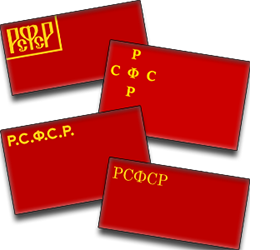
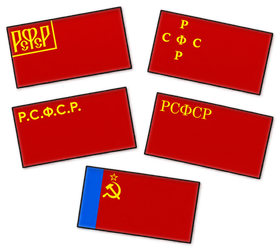
Display fifth Russian flag option and preserve Soviet republic cosmetic name

diff --git a/MOD制作日志.md b/MOD制作日志.md
@@ -2,6 +2,12 @@
 
 最后更新：2026-10-11
 
+## 2026-10-11 — 第五种国旗展示及外观名称修复
+
+- 国旗问题stalin_form_sov.6已有第五选项、RUS_sov_5外观色与大中小旗，但配图仍只有四旗；三语缺RUS_sov_5名称键，选旗后回退基础俄罗斯名称。沿用前四种外观名称本地化格式，为第五种补齐简中／英文／俄文名称、DEF及ADJ，显示俄罗斯苏维埃联邦社会主义共和国。未改选旗事件、国旗纹理、意识形态或其他效果。
+- 使用内置ImageGen编辑原四旗配图，加入实际第五旗参考（蓝旗杆边、红底黄星镰锤），排列上二／中二／下中一，五旗互不遮挡；生成高清透明图保存在output/flag_choice_fifth_20261011，缩放为原配图280×250 RGBA保持原事件与图元引用。完整提示词、旧图、三语修改前文件及第五旗参考保存在该输出目录。高清与原尺寸已目视核对第五面旗及顺序。
+- 核对三语差异仅新增外观名称／DEF／ADJ且键唯一、UTF-8 BOM；结构检查、本地化RHoiScribe与项目括号／未闭合块检查通过，repair仅dry_run未应用，git diff --check通过。选择文件构建同步配图及三语到上传，其余上传文件保留。未启动游戏，选旗后的名称与事件展示仍需重启实测。开始工作树干净，fetch连接重置且网络子进程停滞，终止本次fetch，未拉取或覆盖远端；创建本地Git提交，未推送GitHub。
+
 ## 2026-10-11 — 事件总体主义译名统一
 
 - 对照只读KR简中2946487287/localisation/simp_chinese/KR_common/00 Political l_simp_chinese.yml的totalist“总体主义”，将测试版事件stalin_form_sov.17及rus_stalin_zinovyev_rework相关标题／正文中的“极权主义”与单独“极权”统一为“总体主义”。共10个事件本地化键、33处；只更换译名，不改脚本、其他叙事、事件效果或非事件键。修改前文件及键清单在output/event_totalism_terminology_20261011。
